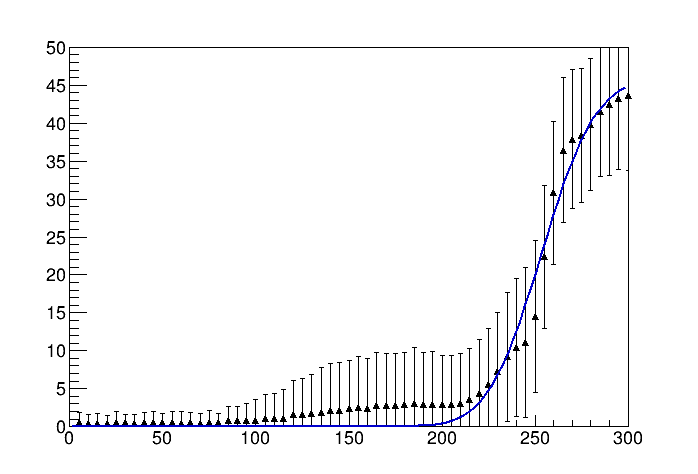
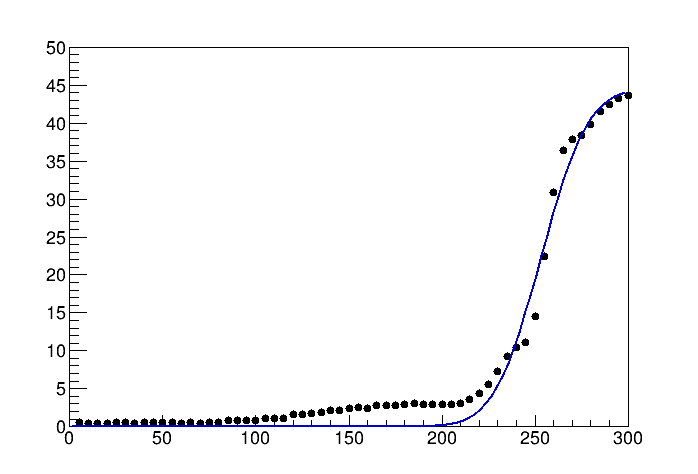
test

diff --git a/dthesis_template/makeplot/sCurve.py b/dthesis_template/makeplot/sCurve.py
@@ -1,7 +1,7 @@
 #!/usr/bin/python
 # -*- coding: utf-8 -*-
 
-from ROOT import TF1, TH1F, TH2F, TGraphErrors, gStyle, TCanvas
+from ROOT import TF1, TH1F, TH2F, TGraph, gStyle, TCanvas
 from ROOT import kWhite, kBlack, kGray, kRed, kGreen, kBlue, kYellow, kMagenta, kCyan, kOrange, kSpring, kTeal, kAzure, kViolet, kPink
 import ROOT
 import json
@@ -51,7 +51,7 @@ def MakePlot(tge, scurveList):
         sig = np.std(data)
         n = tge.GetN()
         tge.SetPoint(n, num, mean)
-        tge.SetPointError(n, 0, sig)
+        #tge.SetPoint(n, 0, sig)
 
 def fitGaus(fitgaus, h1d, p0, p1, p2, max, min):
     fitgaus.SetParameter(0, p0)
@@ -68,10 +68,10 @@ def main():
     h2D = TH2F("sCurve", "", 61, -2.5, 302.5, 49, 0.5, 49.5)
     h1D = TH1F("VcalConst", "", 49, 0.5, 49.5)
 
-    #define TGraphErrors
-    tge = TGraphErrors()
+    #define TGraphs
+    tge = TGraph()
     tge.SetMarkerColor(kBlack)
-    tge.SetMarkerStyle(22)
+    tge.SetMarkerStyle(20)
 
     #define fit function
     fitgaus = TF1("fitgaus","[2]*(1+(TMath::Erf((x-[0])/sqrt(2*[1]))))",0,300)
